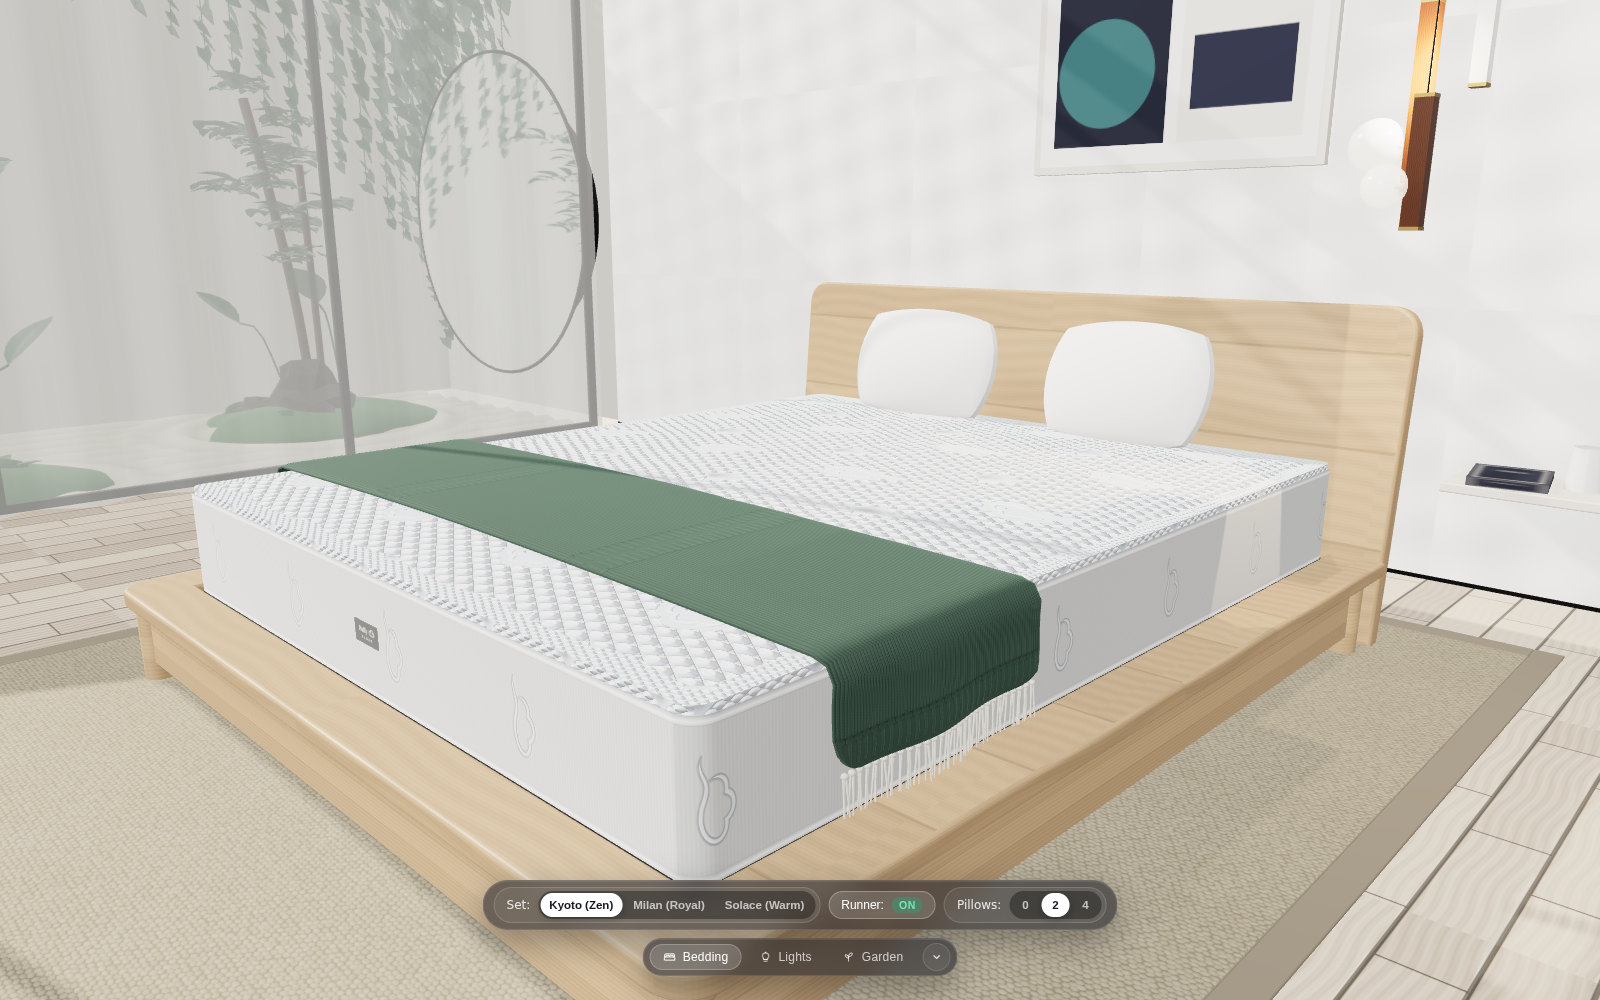
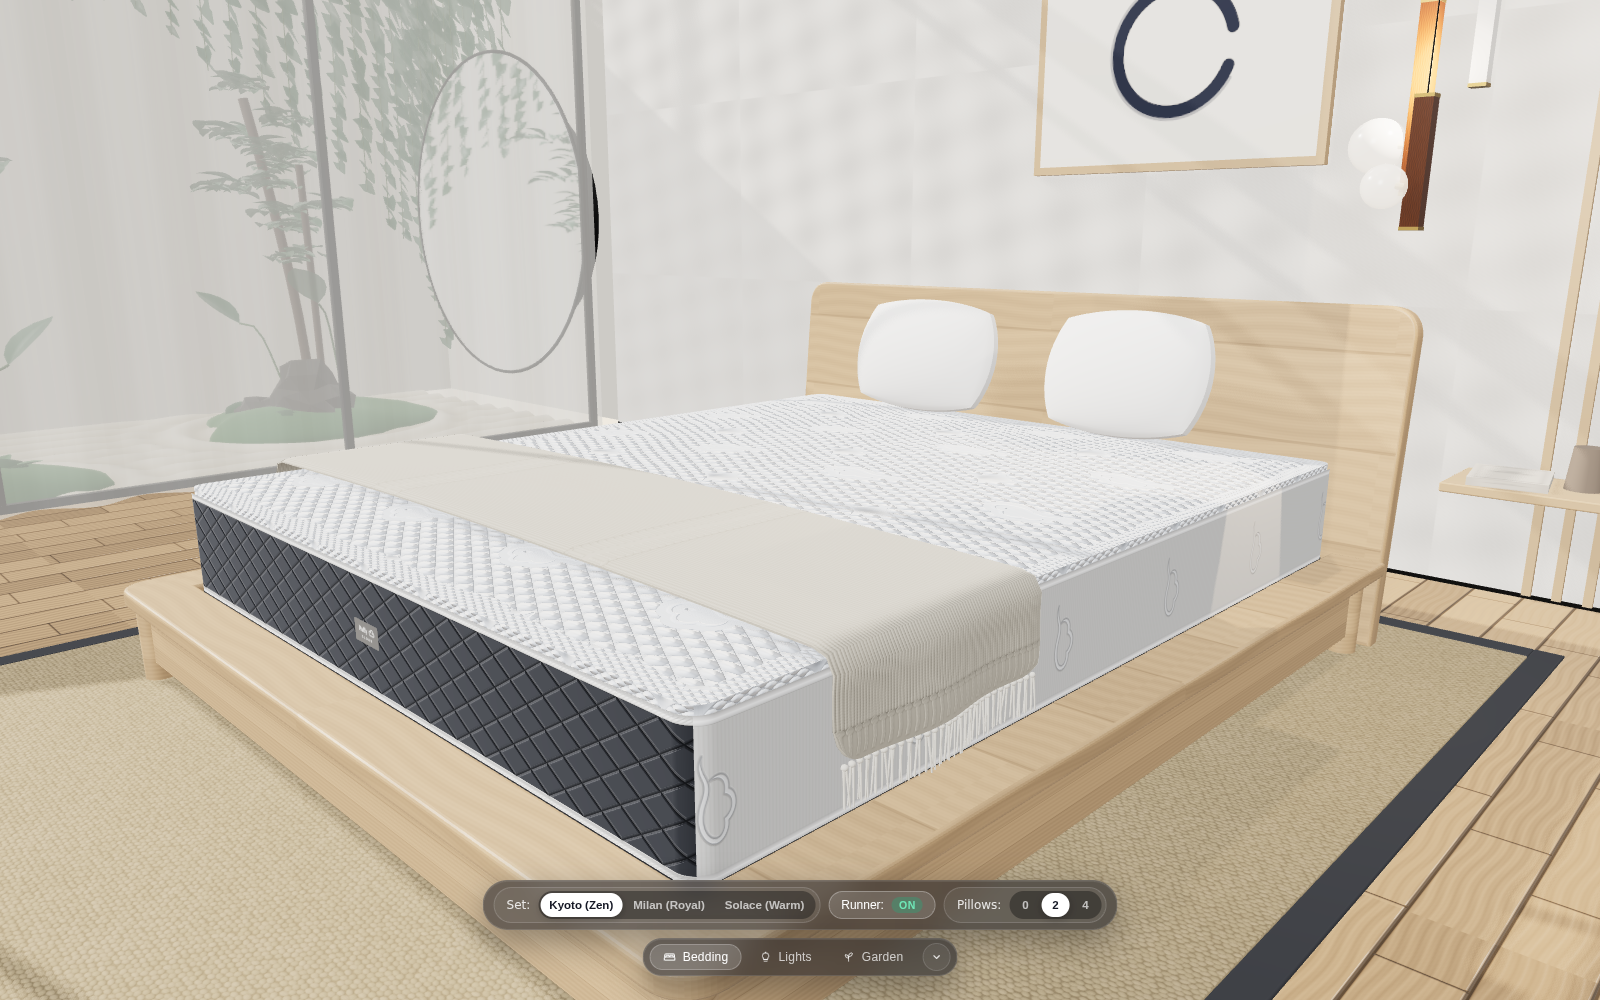
fix(bedroom): restore authentic Puffy mattress assets and snap accessories to measured crown height

diff --git a/webapp/src/components/canvas/bedroom/components/PuffyMattress.tsx b/webapp/src/components/canvas/bedroom/components/PuffyMattress.tsx
@@ -1,12 +1,12 @@
 import { useEffect } from 'react';
 import * as THREE from 'three';
-import { RoundedBoxGeometry } from 'three/addons/geometries/RoundedBoxGeometry.js';
 import {
   MATTRESS_CATALOG_SPECS,
   registerBedroomComponent,
   disposeComponent,
   type MattressVariantId,
 } from '../BedroomRegistry.ts';
+import { FloatingWoolPad } from '../../puffy-hero-3d/FloatingWoolPad.ts';
 import type { BedroomAssetInstance } from './PuffyBedFrame.tsx';
 
 export interface PuffyMattressOptions {
@@ -14,13 +14,12 @@ export interface PuffyMattressOptions {
   width?: number;
   length?: number;
   deckY?: number;
+  maxAnisotropy?: number;
 }
 
-const ALL_MATTRESS_IDS: Array<'puffy-cloud-mattress' | 'puffy-royal-mattress' | 'puffy-flux-mattress'> = [
-  'puffy-cloud-mattress',
-  'puffy-royal-mattress',
-  'puffy-flux-mattress',
-];
+const ALL_MATTRESS_IDS: Array<
+  'puffy-cloud-mattress' | 'puffy-royal-mattress' | 'puffy-flux-mattress'
+> = ['puffy-cloud-mattress', 'puffy-royal-mattress', 'puffy-flux-mattress'];
 
 export function unregisterAllPuffyMattresses(): void {
   for (const id of ALL_MATTRESS_IDS) {
@@ -49,168 +48,58 @@ export function registerPuffyMattressVariant(
     },
     materialSlots:
       variant === 'cloud'
-        ? ['organic-ivory-quilt', 'ivory-self-piping']
+        ? ['cloud-quilt-top', 'cloud-front-border', 'cloud-side-border', 'puffy-cloud-badge']
         : variant === 'royal'
           ? ['cloud-quilt-top', 'charcoal-tech-border', 'black-piping', 'puffy-ribbon-badge']
-          : ['cloud-quilt-top', 'heather-grey-border', 'warm-neutral-piping'],
+          : ['cloud-quilt-top', 'heather-grey-border', 'warm-neutral-piping', 'puffy-lux-badge'],
     disposableMeshes: meshes,
   });
 }
 
-function createQuiltNormalMap(): THREE.CanvasTexture {
-  const size = 256;
-  const canvas = document.createElement('canvas');
-  canvas.width = size;
-  canvas.height = size;
-  const ctx = canvas.getContext('2d');
-  if (ctx) {
-    const img = ctx.createImageData(size, size);
-    const data = img.data;
-    for (let y = 0; y < size; y++) {
-      for (let x = 0; x < size; x++) {
-        const u = (x / size) * 8;
-        const v = (y / size) * 8;
-        const wave = Math.sin(u * Math.PI * 2) * Math.cos(v * Math.PI * 2);
-        const dx = Math.cos(u * Math.PI * 2) * Math.cos(v * Math.PI * 2) * 0.28;
-        const dy = -Math.sin(u * Math.PI * 2) * Math.sin(v * Math.PI * 2) * 0.28;
-        const idx = (y * size + x) * 4;
-        data[idx] = Math.round(THREE.MathUtils.clamp(0.5 + dx + wave * 0.04, 0, 1) * 255);
-        data[idx + 1] = Math.round(THREE.MathUtils.clamp(0.5 + dy + wave * 0.04, 0, 1) * 255);
-        data[idx + 2] = 240;
-        data[idx + 3] = 255;
-      }
-    }
-    ctx.putImageData(img, 0, 0);
-  }
-  const tex = new THREE.CanvasTexture(canvas);
-  tex.colorSpace = THREE.NoColorSpace;
-  tex.wrapS = THREE.RepeatWrapping;
-  tex.wrapT = THREE.RepeatWrapping;
-  tex.repeat.set(3, 4);
-  return tex;
-}
-
 /**
- * Modular Mattress Switcher (`cloud` | `royal` | `flux`) for standalone bedroom mode.
- * When `FloatingWoolPad` is attached, `BedroomSanctuaryScene` delegates variant switching
- * to `FloatingWoolPad.updateModel` and registers metadata via `registerPuffyMattressVariant`.
+ * Authentic Puffy Mattress Wrapper (`cloud` | `royal` | `flux`).
+ * Delegates 100% to the calibrated `FloatingWoolPad` catalog asset so authentic
+ * side-wall textiles, quilting, piping cords, and brand badges are preserved
+ * without any procedural recoloring or material flattening.
  */
-export function createPuffyMattress(options: PuffyMattressOptions = {}): BedroomAssetInstance {
+export function createPuffyMattress(
+  options: PuffyMattressOptions = {},
+): BedroomAssetInstance & { woolPad: FloatingWoolPad } {
   const variant: MattressVariantId = options.variant ?? 'cloud';
-  const width = options.width ?? 1.60;
-  const length = options.length ?? 2.10;
+  const width = options.width ?? 2.15;
+  const length = options.length ?? 2.55;
   const deckY = options.deckY ?? 0.24;
   const spec = MATTRESS_CATALOG_SPECS[variant];
-  const totalHeight = spec.profileHeightMeters;
+
+  const woolPad = new FloatingWoolPad(options.maxAnisotropy ?? 4);
+  const ecoModel = variant === 'flux' ? 'lux' : variant;
+  woolPad.updateModel(ecoModel, true);
+  woolPad.setFloatingEnabled(false, 0.238);
+  woolPad.update(0, 0.016);
 
   const group = new THREE.Group();
   group.name = `PuffyMattress_${variant}`;
+  group.position.set(0, deckY, 0);
+  group.add(woolPad.group);
 
-  const quiltNormal = createQuiltNormalMap();
   const meshes: THREE.Mesh[] = [];
-
-  const topColor = variant === 'cloud' ? '#F5F2EB' : '#F8F7F4';
-  const borderColor =
-    variant === 'cloud' ? '#F5F2EB' : variant === 'royal' ? '#2B2F36' : '#6A6F78';
-  const pipingColor =
-    variant === 'cloud' ? '#EAE6DC' : variant === 'royal' ? '#171A1F' : '#D5CFC3';
-
-  const topQuiltMat = new THREE.MeshPhysicalMaterial({
-    color: topColor,
-    roughness: 0.88,
-    metalness: 0.0,
-    sheen: 0.35,
-    sheenColor: new THREE.Color('#FFFFFF'),
-    sheenRoughness: 0.75,
-    normalMap: quiltNormal,
-    normalScale: new THREE.Vector2(0.45, 0.45),
+  woolPad.group.traverse((child) => {
+    if ((child as THREE.Mesh).isMesh) {
+      child.castShadow = true;
+      meshes.push(child as THREE.Mesh);
+    }
   });
 
-  const borderMat = new THREE.MeshPhysicalMaterial({
-    color: borderColor,
-    roughness: variant === 'royal' ? 0.82 : 0.88,
-    metalness: 0.0,
-    sheen: 0.25,
-    sheenColor: new THREE.Color(variant === 'royal' ? '#4B5260' : '#E8E4DC'),
-    sheenRoughness: 0.8,
-  });
-
-  const pipingMat = new THREE.MeshStandardMaterial({
-    color: pipingColor,
-    roughness: 0.72,
-    metalness: 0.0,
-  });
-
-  // Main mattress core
-  const coreHeight = totalHeight - 0.025;
-  const coreGeo = new RoundedBoxGeometry(width, coreHeight, length, 4, 0.024);
-  const coreMesh = new THREE.Mesh(coreGeo, borderMat);
-  coreMesh.position.set(0, deckY + coreHeight / 2, 0);
-  coreMesh.castShadow = true;
-  coreMesh.receiveShadow = true;
-  group.add(coreMesh);
-  meshes.push(coreMesh);
-
-  // Top quilted cloud pillow-top slab
-  const topSlabH = 0.045;
-  const topGeo = new RoundedBoxGeometry(width - 0.008, topSlabH, length - 0.008, 4, 0.020);
-  const topMesh = new THREE.Mesh(topGeo, topQuiltMat);
-  topMesh.position.set(0, deckY + totalHeight - topSlabH / 2, 0);
-  topMesh.castShadow = true;
-  topMesh.receiveShadow = true;
-  group.add(topMesh);
-  meshes.push(topMesh);
-
-  // Perimeter piping welt
-  const pipingThick = 0.009;
-  const pipingY = deckY + totalHeight - topSlabH + 0.006;
-  const pipingFB = new THREE.BoxGeometry(width + 0.004, pipingThick, pipingThick);
-  const pipingLR = new THREE.BoxGeometry(pipingThick, pipingThick, length + 0.004);
-
-  const frontPipe = new THREE.Mesh(pipingFB, pipingMat);
-  frontPipe.position.set(0, pipingY, length / 2);
-  const backPipe = new THREE.Mesh(pipingFB, pipingMat);
-  backPipe.position.set(0, pipingY, -length / 2);
-  const leftPipe = new THREE.Mesh(pipingLR, pipingMat);
-  leftPipe.position.set(-width / 2, pipingY, 0);
-  const rightPipe = new THREE.Mesh(pipingLR, pipingMat);
-  rightPipe.position.set(width / 2, pipingY, 0);
-  group.add(frontPipe, backPipe, leftPipe, rightPipe);
-  meshes.push(frontPipe, backPipe, leftPipe, rightPipe);
-
-  // Royal: high-contrast navy upper gusset & signature ribbon badge
-  if (variant === 'royal') {
-    const gussetMat = new THREE.MeshStandardMaterial({
-      color: '#253B5E',
-      roughness: 0.82,
-      metalness: 0.0,
-    });
-    const gussetGeo = new RoundedBoxGeometry(width + 0.002, 0.055, length + 0.002, 3, 0.012);
-    const gussetMesh = new THREE.Mesh(gussetGeo, gussetMat);
-    gussetMesh.position.set(0, deckY + totalHeight - 0.072, 0);
-    gussetMesh.castShadow = true;
-    gussetMesh.receiveShadow = true;
-    group.add(gussetMesh);
-    meshes.push(gussetMesh);
-
-    const badgeMat = new THREE.MeshStandardMaterial({
-      color: '#1E2229',
-      roughness: 0.55,
-      metalness: 0.05,
-    });
-    const badgeGeo = new RoundedBoxGeometry(0.14, 0.048, 0.012, 2, 0.004);
-    const badgeMesh = new THREE.Mesh(badgeGeo, badgeMat);
-    badgeMesh.position.set(0, deckY + totalHeight * 0.45, length / 2 + 0.004);
-    group.add(badgeMesh);
-    meshes.push(badgeMesh);
-  }
-
-  registerPuffyMattressVariant(variant, width, length, meshes, deckY);
+  registerPuffyMattressVariant(variant, width, length, [], deckY);
 
   return {
     group,
     meshes,
-    dispose: () => disposeComponent(spec.registryId),
+    woolPad,
+    dispose: () => {
+      woolPad.dispose();
+      disposeComponent(spec.registryId);
+    },
   };
 }
 
@@ -226,7 +115,7 @@ export function PuffyMattress({
       scene.remove(asset.group);
       asset.dispose();
     };
-  }, [scene, options.variant, options.width, options.length, options.deckY]);
+  }, [scene, options.variant, options.width, options.length, options.deckY, options.maxAnisotropy]);
 
   return null;
 }

diff --git a/webapp/src/components/canvas/bedroom/BedroomSanctuaryScene.tsx b/webapp/src/components/canvas/bedroom/BedroomSanctuaryScene.tsx
@@ -7,7 +7,6 @@ import {
   BEDROOM_STYLE_PRESETS,
   ENVIRONMENT_RUNNER_PALETTES,
   ENVIRONMENT_TO_STYLE,
-  MATTRESS_CATALOG_SPECS,
   disposeAllBedroomComponents,
   disposeComponent,
   type BedFrameVariantId,
@@ -200,13 +199,34 @@ export function createBedroomSanctuaryScene(
   });
   group.add(windowCurtain.group);
 
-  // Track active style, mattress height delta, and bed decor visibility for dynamic remounts
+  // Track active style, mattress crown height, and bed decor visibility for dynamic remounts
   let currentStyle: BedroomStyle = initialStyle;
   let currentHeightDelta = 0;
+  let currentPillowHeightDelta = 0;
   let bedDecorVisible = true;
 
   const mattressTopY = isFloatingPadAttached ? 0.68 : 0.582;
   const pillowSurfaceY = isFloatingPadAttached ? 0.66 : 0.582;
+
+  const measureVisibleTopY = (root: THREE.Object3D): number | null => {
+    root.updateWorldMatrix(true, true);
+    const box = new THREE.Box3();
+    const meshBox = new THREE.Box3();
+    let found = false;
+    root.traverse((obj) => {
+      if ((obj as THREE.Mesh).isMesh && obj.visible) {
+        const mesh = obj as THREE.Mesh;
+        if (mesh.name.toLowerCase().includes('hitproxy')) return;
+        mesh.geometry.computeBoundingBox();
+        if (mesh.geometry.boundingBox) {
+          meshBox.copy(mesh.geometry.boundingBox).applyMatrix4(mesh.matrixWorld);
+          box.union(meshBox);
+          found = true;
+        }
+      }
+    });
+    return found && Number.isFinite(box.max.y) ? box.max.y : null;
+  };
 
   // 7. Staggered Geometric Bedroom Pendant Light Cluster (Suspended from y = 3.90m down to 1.35m)
   let pendantCluster: ReturnType<typeof createModernPendantCluster> | null = null;
@@ -320,7 +340,7 @@ export function createBedroomSanctuaryScene(
 
     const root = new THREE.Group();
     root.name = count === 4 ? 'FourPillowAssembly' : 'TwoPillowAssembly';
-    root.position.y = currentHeightDelta;
+    root.position.y = currentPillowHeightDelta;
     root.visible = bedDecorVisible;
 
     if (count === 2) {
@@ -424,11 +444,45 @@ export function createBedroomSanctuaryScene(
   const syncMattressHeight = (heightDeltaMeters: number) => {
     const safeDelta = Number.isFinite(heightDeltaMeters) ? heightDeltaMeters : 0;
     currentHeightDelta = safeDelta;
+    currentPillowHeightDelta = safeDelta + (mattressTopY - pillowSurfaceY);
     if (pillowRootGroup) {
-      pillowRootGroup.position.y = safeDelta;
+      pillowRootGroup.position.y = currentPillowHeightDelta;
     }
     if (throwBlanket) {
-      throwBlanket.group.position.y = safeDelta;
+      throwBlanket.group.position.y = currentHeightDelta;
+    }
+  };
+
+  const getMountedMattressCrownY = (): number | null => {
+    if (options.floatingWoolPad) {
+      const topWorldY = measureVisibleTopY(options.floatingWoolPad.group);
+      if (topWorldY !== null) {
+        const parentWorldPos = new THREE.Vector3();
+        if (options.floatingWoolPad.group.parent) {
+          options.floatingWoolPad.group.parent.getWorldPosition(parentWorldPos);
+        }
+        const localTopY = topWorldY - parentWorldPos.y;
+        return 0.24 + localTopY;
+      }
+    } else if (standaloneMattressInstance) {
+      return measureVisibleTopY(standaloneMattressInstance.group);
+    } else if (options.mattressGroup) {
+      return measureVisibleTopY(options.mattressGroup);
+    }
+    return null;
+  };
+
+  const snapAccessoriesToMattress = () => {
+    const crownY = getMountedMattressCrownY();
+    if (crownY !== null) {
+      currentHeightDelta = crownY - mattressTopY;
+      currentPillowHeightDelta = crownY - pillowSurfaceY;
+      if (throwBlanket) {
+        throwBlanket.group.position.y = currentHeightDelta;
+      }
+      if (pillowRootGroup) {
+        pillowRootGroup.position.y = currentPillowHeightDelta;
+      }
     }
   };
 
@@ -451,7 +505,7 @@ export function createBedroomSanctuaryScene(
       options.floatingWoolPad.setFloatingEnabled(false, 0.238);
       options.floatingWoolPad.update(0, 0.016);
       registerPuffyMattressVariant(variant, mattressW, mattressL, [], 0.24);
-      syncMattressHeight(options.floatingWoolPad.getHeightDeltaFromRoyal() + 0.024);
+      snapAccessoriesToMattress();
     } else if (!options.mattressGroup) {
       unmountStandaloneMattress();
       standaloneMattressInstance = createPuffyMattress({
@@ -461,9 +515,10 @@ export function createBedroomSanctuaryScene(
         deckY: 0.24,
       });
       group.add(standaloneMattressInstance.group);
-      syncMattressHeight(MATTRESS_CATALOG_SPECS[variant].standaloneTopY - 0.582);
+      snapAccessoriesToMattress();
     } else {
       registerPuffyMattressVariant(variant, mattressW, mattressL, [], 0.24);
+      snapAccessoriesToMattress();
     }
   };
 
@@ -560,11 +615,12 @@ export function createBedroomSanctuaryScene(
         child.castShadow = true;
       }
     });
+    snapAccessoriesToMattress();
   };
 
   if (options.floatingWoolPad) {
     options.floatingWoolPad.setFloatingEnabled(false, 0.238);
-    syncMattressHeight(options.floatingWoolPad.getHeightDeltaFromRoyal() + 0.024);
+    snapAccessoriesToMattress();
   } else if (options.mattressGroup) {
     dockMattress(options.mattressGroup);
   }
@@ -724,7 +780,6 @@ export const BedroomSanctuaryScene: React.FC<BedroomSanctuarySceneProps> = ({
     });
     woolPad.setFloatingEnabled(false, 0.238);
     sanctuary.dockMattress(mattressDockGroup);
-    sanctuary.syncMattressHeight(woolPad.getHeightDeltaFromRoyal() + 0.024);
     scene.add(sanctuary.group);
     scene.add(mattressDockGroup);
 

diff --git a/webapp/src/components/canvas/puffy-hero-3d/FloatingWoolPad.ts b/webapp/src/components/canvas/puffy-hero-3d/FloatingWoolPad.ts
@@ -426,7 +426,7 @@ export class FloatingWoolPad {
       const {sidewallRoyal, sidewallLux, sidewallCloudFront, sidewallCloudWrap} =
         this.loadedAssets.materials;
       if (resolvedKey === 'cloud') {
-        this.sidewallMesh.material = [sidewallCloudWrap, sidewallCloudWrap];
+        this.sidewallMesh.material = [sidewallCloudFront, sidewallCloudWrap];
       } else if (resolvedKey === 'lux') {
         this.sidewallMesh.material = [sidewallLux, sidewallLux];
       } else {
